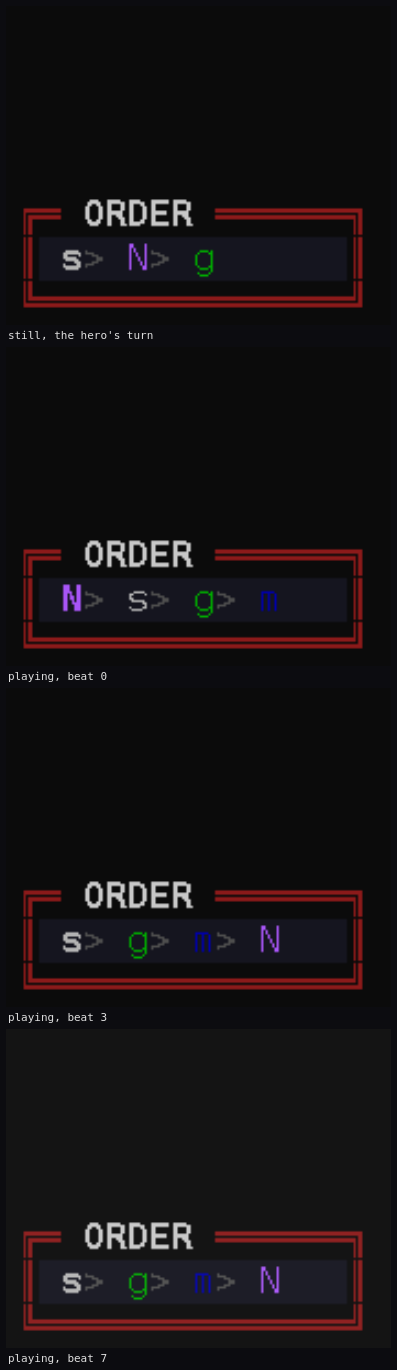
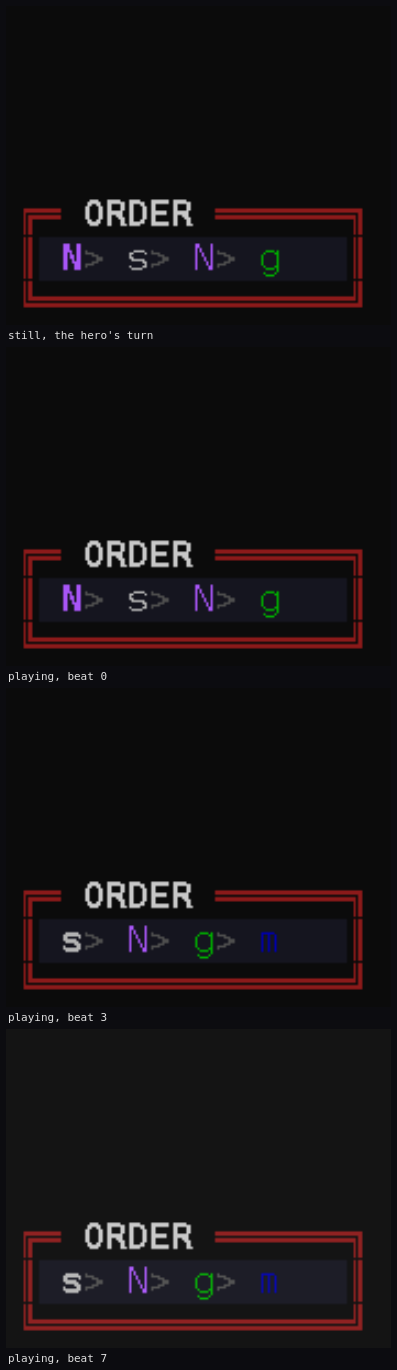
the turn in flight stays at the front of the order strip
The strip jumped: with `N > N > g > N` on screen, the hero's blow would send
the whole row a step left and the room then slid it back a step right. It was
the *queue* doing it, honestly and in the wrong place -- `_advance` charges the
hero for his turn before he takes it, which is how it finds him, so the paces
describe what comes *after* the turn in flight. A strip read straight off them
loses the hero the moment he swings, and finds him again when the room settles
and the screen reads the queue once more.

`upcoming()` now says so: while the hero is up, his turn -- the one being taken
-- is the first thing it hands back, and the simulation runs on from there. The
strip is then the same strip standing still and mid-swing, so nothing slides: it
moves on only when a turn is genuinely *taken*, which is what a player is
watching it for.

Two tests hold it: one plays a whole round and refuses to let the head leave the
hero while he is swinging, the other (with a monster quick enough to act after
him in the same round) refuses to let it stay on him once his turn is over.

diff --git a/tests/test_desktop_screens.py b/tests/test_desktop_screens.py
@@ -3220,17 +3220,45 @@ def test_the_order_strip_says_who_acts_next(app, font):
     assert battle.enemies[0].glyph in written, "the monster is not in the order"
 
 
-def test_the_order_strip_counts_down_as_the_round_is_played(app):
-    """It moves on as the blows land: whoever has acted is off the front.
+def test_the_order_strip_does_not_jump_when_the_hero_swings(app):
+    """The turn in flight stays at the front of the strip while he swings.
 
-    Dropped up to and *including* them, so a turn whose events are not all blows
-    does not leave the strip one behind for the rest of the round.
+    The queue charges the hero for his turn *before* he takes it -- that is how
+    `_advance` finds him -- so a strip read straight off the paces loses him the
+    moment his blow lands and slides him back in when the room settles: the row
+    shifts a step left and then a step right again. This is that, pinned.
     """
     from neverdeads_revenge.desktop.screens.battle import BattleScreen
 
     battle = arena(count=1)
-    # A monster quick enough to be *after* him in the queue: with the floor's own
-    # slow ones the hero is next again immediately, and quite rightly so.
+    screen = BattleScreen(battle)
+    screen._queue = []
+    screen._beat = 0.0
+    screen.verb = 0
+    screen._choose(app)
+
+    heads: list = []
+    for _ in range(80):
+        assert screen._order, "the strip emptied itself"
+        heads.append(screen._order[0])
+        if not screen.busy:
+            break
+        screen.step(1 / 30.0, app)
+
+    assert all(one is battle.hero for one in heads), (
+        f"the strip left him mid-swing: {[one.glyph for one in heads]}"
+    )
+
+
+def test_the_order_strip_moves_on_to_whoever_is_next(app):
+    """And it does move on: once the turn being taken is *taken*, the head is
+    whoever the queue says is up. Dropped up to and including them, so a turn
+    whose events are not all blows does not leave the strip one behind."""
+    from neverdeads_revenge.desktop.screens.battle import BattleScreen
+
+    battle = arena(count=1)
+    # A monster quick enough to act *after* him in the same round: with the
+    # floor's own slow ones the hero is up again immediately, and rightly so.
     battle.enemies[0].stats.speed = 9.0
     screen = BattleScreen(battle)
     screen._queue = []
@@ -3238,16 +3266,17 @@ def test_the_order_strip_counts_down_as_the_round_is_played(app):
     screen.verb = 0
     screen._choose(app)
 
-    assert screen._order, "the strip is empty"
-    assert screen._order[0] is battle.hero, "the round does not start with him"
+    assert screen._order and screen._order[0] is battle.hero, "not his turn first"
     head = screen._order[0]
-
-    for _ in range(60):
+    for _ in range(80):
         screen.step(1 / 30.0, app)
         if screen._order and screen._order[0] is not head:
             break
 
-    assert screen._order and screen._order[0] is not head, "the strip never moved on"
+    assert screen._order, "the strip emptied itself"
+    assert screen._order[0] is battle.enemies[0], (
+        f"the strip is on {screen._order[0].glyph}, not on the monster that acts next"
+    )
 
 
 def test_a_monster_dies_when_the_blow_lands_and_not_when_it_is_decided(app):

diff --git a/src/neverdeads_revenge/desktop/screens/battle.py b/src/neverdeads_revenge/desktop/screens/battle.py
@@ -539,7 +539,7 @@ class BattleScreen(Screen):
         self._knocked: dict[int, tuple[float, float]] = {}
         #: The room holding still on a landed blow, in seconds left to hold.
         self._hitstop = 0.0
-        self._order: list = list(battle.upcoming(ORDER_SHOWN))
+        self._order: list = list(battle.upcoming(ORDER_SHOWN + 2))
         #: Sparks owed to blows that have not landed yet: a shower over a monster
         #: the sword has not reached is the fight telling the player the future,
         #: in the same way a number is. ``(when, point, colour, how many)``.
@@ -1840,8 +1840,11 @@ class BattleScreen(Screen):
         self._queue = list(self.battle.choose(VERBS[self.verb], target, special=special))
         self._beat = 0.0
         # The strip the player is about to watch: the round that was just decided,
-        # in the order it was decided, and then what the queue says comes after it.
-        self._order = [*self.battle.turns(), *self.battle.upcoming(ORDER_SHOWN)]
+        # in the order it was decided, and then what the queue says comes after it
+        # -- with enough runway that counting the round off the front never leaves
+        # the strip shorter than the row it draws.
+        played = self.battle.turns()
+        self._order = [*played, *self.battle.upcoming(ORDER_SHOWN + len(played))]
         # The confirmation, and only one of it: a trick and a draught have a
         # voice of their own, and a blip over the top of the dark's own sound
         # would be a stutter rather than a flourish. Everything else -- a swing,
@@ -1895,10 +1898,11 @@ class BattleScreen(Screen):
         """Truth, once the round has finished being played."""
         for actor in [self.battle.hero, *self.battle.enemies]:
             self._shown[id(actor)] = actor.stats.hp
-        # And the order. Standing still means the hero is up -- `_advance` always
-        # hands over to him -- so his own turn goes in front of the prediction,
-        # which is about the turns *after* the one being taken.
-        self._order = [self.battle.hero, *self.battle.upcoming(ORDER_SHOWN)]
+        # And the order: `upcoming` already begins with the turn in flight, so
+        # standing still and mid-swing give the same strip and nothing slides. A
+        # couple spare, so that the row the panel draws is never shorter than the
+        # row it drew a moment ago.
+        self._order = list(self.battle.upcoming(ORDER_SHOWN + 2))
 
     def _play(self, event, app) -> None:
         """One event, on the screen and in the ear."""

diff --git a/src/neverdeads_revenge/game/battle.py b/src/neverdeads_revenge/game/battle.py
@@ -511,14 +511,22 @@ class Battle:
         living = [one for one in [self.hero, *self.enemies] if one.stats.alive]
         for one in living:
             pace.setdefault(id(one), 1.0 / max(0.1, one.speed))
+        # The turn *in flight* comes first. While the hero is up, the queue has
+        # already charged him for the turn he has not taken yet -- that is how
+        # `_advance` finds him -- so the paces describe what comes after it and
+        # the turn itself would be missing from the strip. Which is exactly the
+        # jump a player sees otherwise: the hero's turn drops off the front when
+        # he swings and slides back in when the room settles.
         ahead: list[Actor] = []
-        for _ in range(max(0, count)):
+        if self._hero_up and self.hero.stats.alive:
+            ahead.append(self.hero)
+        while len(ahead) < max(0, count):
             if not living:
                 break
             who = min(living, key=lambda one: pace.get(id(one), 0.0))
             ahead.append(who)
             pace[id(who)] = pace.get(id(who), 0.0) + 1.0 / max(0.1, who.speed)
-        return ahead
+        return ahead[: max(0, count)]
 
     def _order(self) -> list[Actor]:
         """Who is up next, and after them, and after them.
